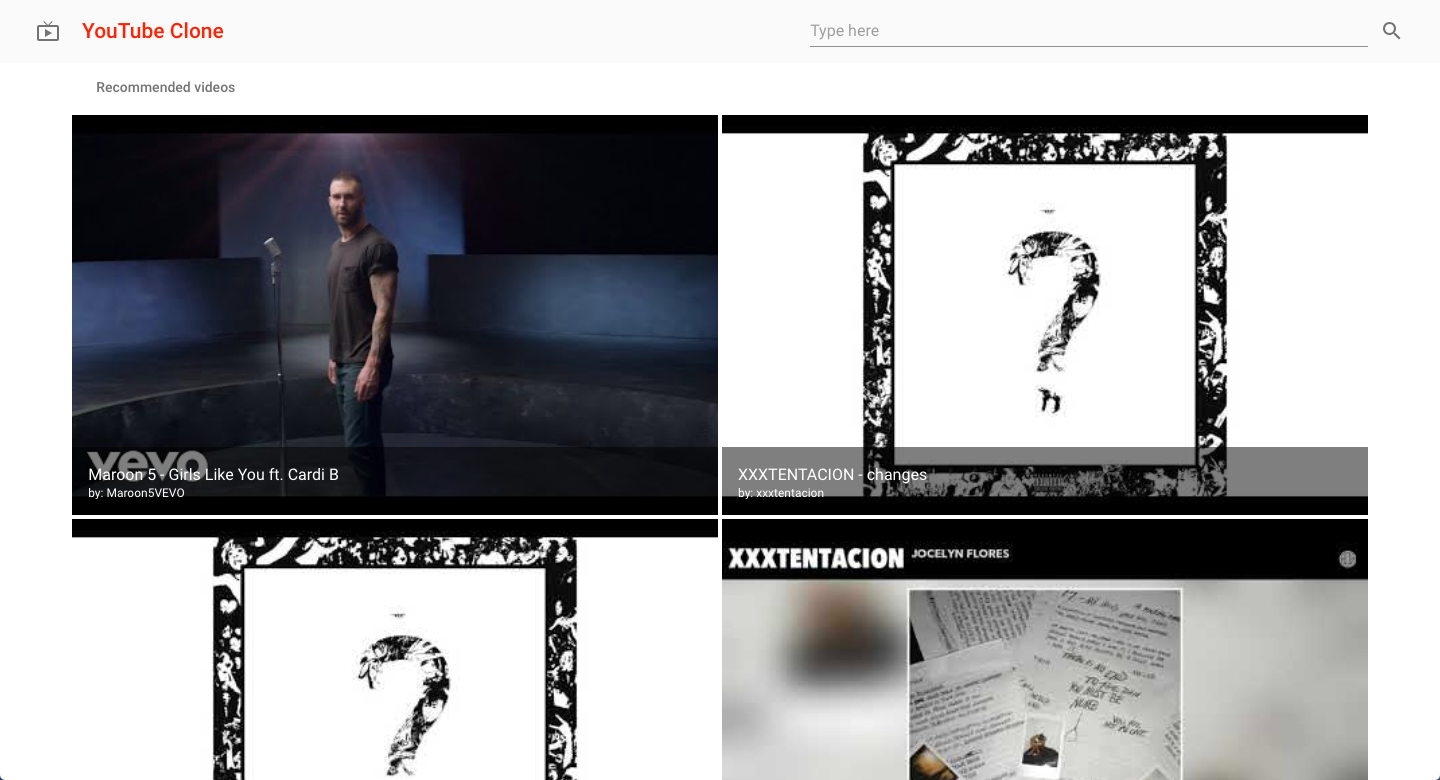
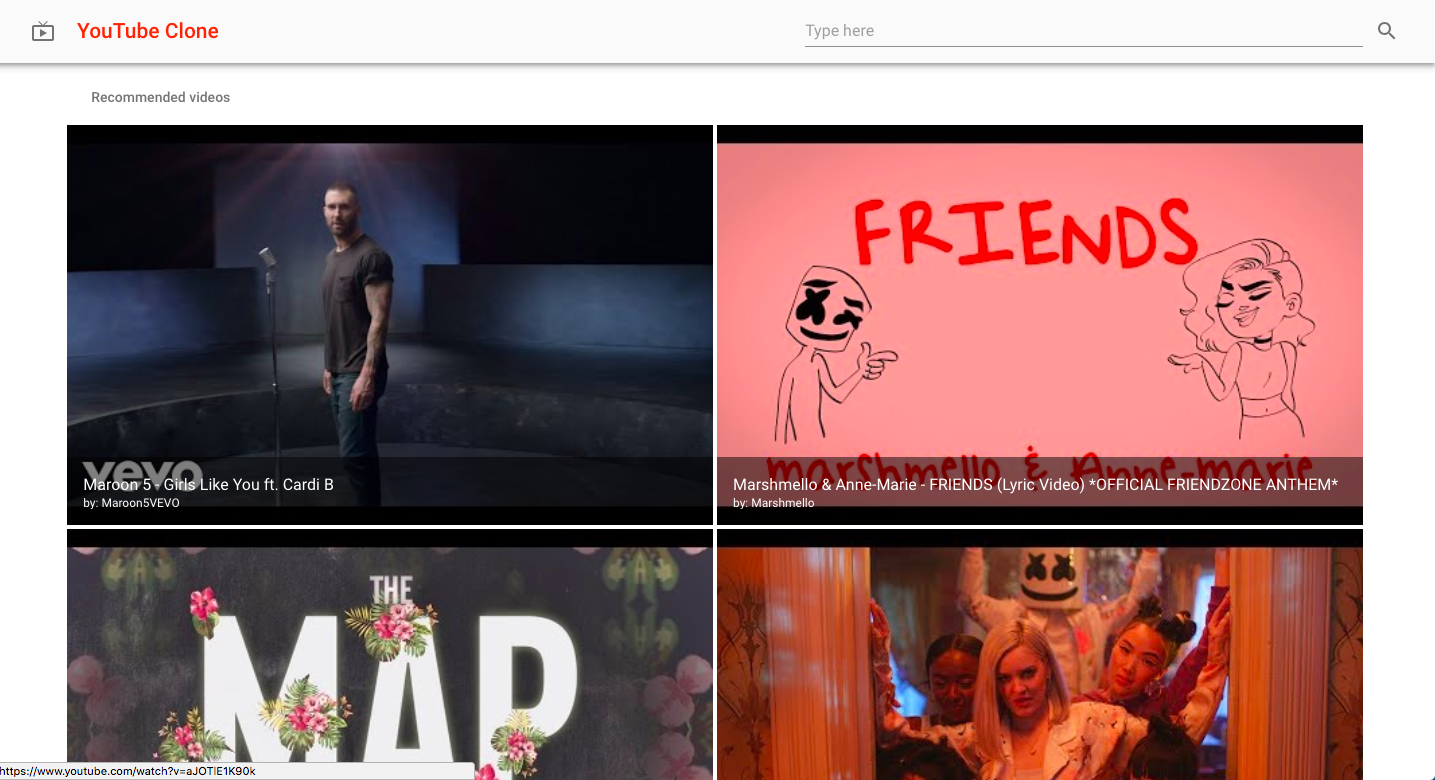
Fixed header shadow on videos description

diff --git a/src/App.js b/src/App.js
@@ -59,6 +59,7 @@ class App extends Component {
             goHome={() => this.setState({ video: null })}
           />
           { /* Render the player or videos description */ }
+          <div style={{ marginTop: 10 }}>
           { this.state.video 
             ? <Player video={this.state.video} /> 
             : !this.state.videos || 
@@ -68,6 +69,7 @@ class App extends Component {
                 playVideo={video => () => this.setState({ video })}
               /> 
           }
+          </div>
         </React.Fragment>
       </MuiThemeProvider>
     );

diff --git a/src/components/Player.js b/src/components/Player.js
@@ -16,7 +16,6 @@ const styles = theme => ({
     flexGrow: 1,
     marginRight: 30,
     marginLeft: 30,
-    marginTop: 10
   }
 });
 
